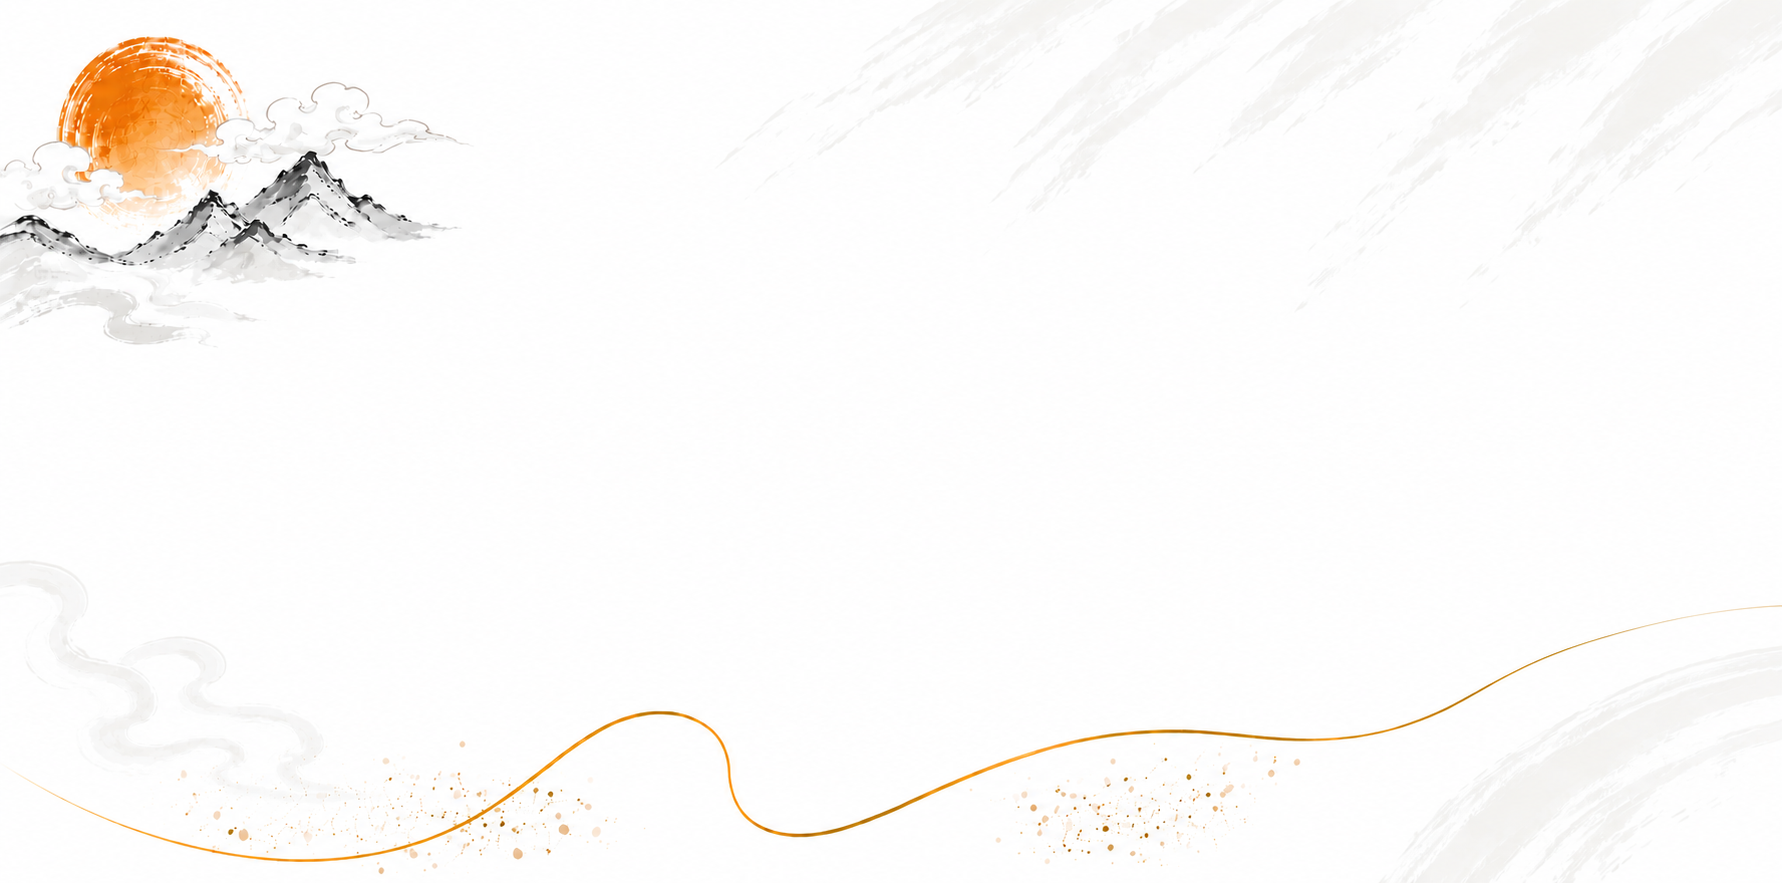
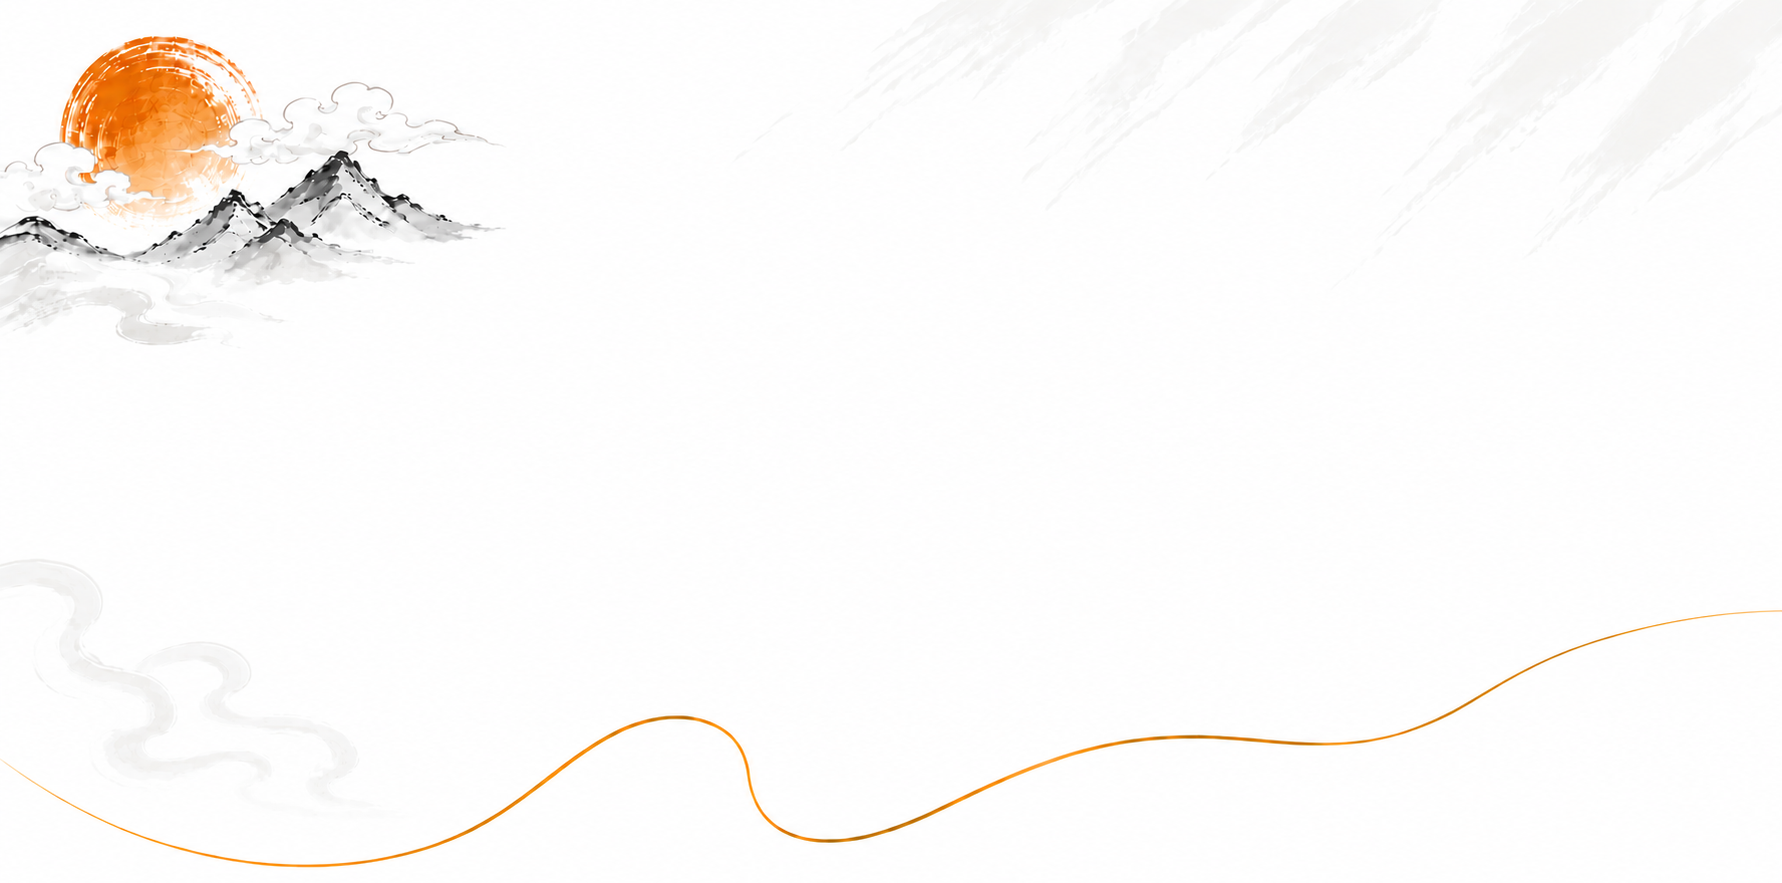
before preloader'

diff --git a/src/components/About.tsx b/src/components/About.tsx
@@ -55,7 +55,6 @@ interface Dish {
   description: string;
   image: string;
   tag?: string;
-  spicy?: boolean;
 }
 
 const FEATURED_DISHES: Dish[] = [
@@ -95,9 +94,6 @@ const FEATURED_DISHES: Dish[] = [
     description:
       "House-fermented napa cabbage with gochugaru, garlic, and ginger — bold, smoky, addictive.",
     image: "/images/kimchi.png",
-    // Heat is dietary info, not curation — it renders as an inline spice
-    // indicator next to the name rather than a badge on the photo.
-    spicy: true,
   },
 ];
 
@@ -191,11 +187,16 @@ export function About() {
           tl.to(textCol, { autoAlpha: 1, scale: 1, duration: 0.16 }, 0.18);
 
           // PHASE 3 (0.52 -> 1.0): the mural keeps opening out — each half
-          // moves its full width (50% of the stage) so the art has fully
-          // left the viewport by the end of the pin. No close, one
-          // continuous motion.
-          tl.to(leftHalf, { xPercent: -100, duration: 0.48 }, 0.52);
-          tl.to(rightHalf, { xPercent: 100, duration: 0.48 }, 0.52);
+          // moves slightly past its full width so the art and its glowing
+          // seam line have fully left the viewport by the end of the pin.
+          // No close, one continuous motion.
+          // ±110 rather than ±100: the seam lines overhang each half's inner
+          // edge by ~2px and glow up to ~30px, so at exactly ±100 an orange
+          // sliver would stay pinned to the viewport edges. The extra 10% of
+          // travel (≥ ~38px at md and up) carries the line and its glow fully
+          // off-screen, and only right at the end of the pin.
+          tl.to(leftHalf, { xPercent: -110, duration: 0.48 }, 0.52);
+          tl.to(rightHalf, { xPercent: 110, duration: 0.48 }, 0.52);
           tl.to(textCol, { autoAlpha: 0, scale: 0.95, duration: 0.1 }, 0.52);
 
           if (lg) {
@@ -303,7 +304,10 @@ export function About() {
           center seam. On desktop the stage is full height (vertically centered
           art); on reduced motion it keeps the mural's natural ~2535:1240
           combined ratio inside the content column. */}
-      <div className="hidden md:block relative z-20 px-6 md:px-0 motion-safe:md:min-h-screen">
+      {/* pointer-events-none: this stage overlays the story/grill layers
+          (z-20 over z-10) and is purely decorative — without it, it swallows
+          every click meant for the buttons revealed in the gap beneath. */}
+      <div className="pointer-events-none hidden md:block relative z-20 px-6 md:px-0 motion-safe:md:min-h-screen">
         <div className="relative mx-auto aspect-[2535/1240] w-full max-w-7xl overflow-hidden md:mx-0 md:aspect-auto md:h-screen md:max-w-none">
           {/* Left half */}
           <div className="mural-half-left absolute left-0 top-0 h-full w-1/2 will-change-transform">
@@ -384,7 +388,7 @@ export function About() {
           </div>
           <Link
             href="/menu"
-            className="mt-10 inline-flex items-center gap-2 font-sans text-sm font-medium text-brand-orange transition-all hover:gap-3"
+            className="relative isolate mt-10 inline-flex items-center gap-2 overflow-hidden rounded-full border border-brand-orange px-8 py-3 font-sans text-sm font-medium text-brand-orange transition-colors duration-300 ease-out before:absolute before:inset-0 before:-z-10 before:origin-left before:scale-x-0 before:bg-brand-orange before:transition-transform before:duration-300 before:ease-out hover:text-white hover:before:scale-x-100 focus-visible:text-white focus-visible:before:scale-x-100"
           >
             Explore our menu
             <span aria-hidden="true">→</span>
@@ -468,16 +472,6 @@ export function About() {
                       }`}
                     >
                       {dish.name}{" "}
-                      {dish.spicy && (
-                        <span
-                          role="img"
-                          aria-label="Spicy"
-                          title="Spicy"
-                          className="mr-1 align-middle text-sm"
-                        >
-                          🌶️
-                        </span>
-                      )}
                       <span className="font-sans text-sm font-light text-foreground/40">
                         {dish.korean}
                       </span>

diff --git a/src/components/HeroVideo.tsx b/src/components/HeroVideo.tsx
@@ -5,7 +5,11 @@ import { useEffect, useRef } from "react";
 /**
  * The hero's grill clip. Autoplays muted like the old full-bleed hero, but
  * honors prefers-reduced-motion by pausing on the poster frame instead of
- * looping (the file is already trimmed to a 5s loop).
+ * looping (the file is already trimmed to a 10s loop).
+ *
+ * While the intro preloader is up (html.preloading), the video holds on its
+ * first frame and starts from the top as the overlay begins to fade, so the
+ * reveal always shows the beginning of the loop.
  */
 export function HeroVideo({ className = "" }: { className?: string }) {
   const ref = useRef<HTMLVideoElement>(null);
@@ -14,26 +18,47 @@ export function HeroVideo({ className = "" }: { className?: string }) {
     const video = ref.current;
     if (!video) return;
 
+    const root = document.documentElement;
     const query = window.matchMedia("(prefers-reduced-motion: reduce)");
+
     const apply = () => {
-      if (query.matches) {
+      if (query.matches || root.classList.contains("preloading")) {
         video.pause();
       } else {
         // play() rejects if the browser blocks autoplay; the poster stays up.
         video.play().catch(() => {});
       }
     };
+
+    // The Preloader only mounts (and adds html.preloading) in a post-hydration
+    // re-render, which can land after this effect — so watch the class in both
+    // directions instead of sampling it once. Rewind on each transition: hold
+    // frame one under the overlay, restart from it as the overlay fades.
+    let wasPreloading = root.classList.contains("preloading");
+    const observer = new MutationObserver(() => {
+      const preloading = root.classList.contains("preloading");
+      if (preloading === wasPreloading) return;
+      wasPreloading = preloading;
+      video.currentTime = 0;
+      apply();
+    });
+    observer.observe(root, { attributes: true, attributeFilter: ["class"] });
+
+    if (wasPreloading) video.currentTime = 0;
     apply();
     query.addEventListener("change", apply);
-    return () => query.removeEventListener("change", apply);
+    return () => {
+      observer.disconnect();
+      query.removeEventListener("change", apply);
+    };
   }, []);
 
   return (
     <video
       ref={ref}
       className={className}
-      src="/videos/hero-grill.mp4"
-      poster="/images/hero-poster.jpg"
+      src="/videos/hero-video3.mp4"
+      poster="/images/hero-poster3.jpg"
       autoPlay
       muted
       loop

diff --git a/src/app/menu/page.tsx b/src/app/menu/page.tsx
@@ -607,33 +607,50 @@ export default function MenuPage() {
 
             {/* Price band */}
             <div className="mx-auto mt-9 inline-flex items-stretch rounded-2xl border border-[#e4d9c4] bg-white shadow-[0_8px_30px_-18px_rgba(26,26,26,0.45)]">
-              <div className="px-8 py-5 text-center sm:px-12">
+              <div className="px-6 py-5 text-center sm:px-10">
                 <p className="font-sans text-[11px] font-medium uppercase tracking-[0.2em] text-foreground/45">
                   Lunch
                 </p>
                 <p className="mt-1 font-serif text-3xl font-light text-brand-red sm:text-4xl">
-                  $22.99
+                  $21.99
                 </p>
                 <p className="mt-1 font-sans text-xs font-light text-foreground/40">
                   per person
                 </p>
               </div>
               <div aria-hidden="true" className="w-px bg-[#e4d9c4]" />
-              <div className="px-8 py-5 text-center sm:px-12">
+              <div className="px-6 py-5 text-center sm:px-10">
                 <p className="font-sans text-[11px] font-medium uppercase tracking-[0.2em] text-foreground/45">
                   Dinner
                 </p>
                 <p className="mt-1 font-serif text-3xl font-light text-brand-red sm:text-4xl">
-                  $29.99
+                  $30.99
                 </p>
                 <p className="mt-1 font-sans text-xs font-light text-foreground/40">
                   per person
+                </p>
+              </div>
+              <div aria-hidden="true" className="w-px bg-[#e4d9c4]" />
+              <div className="px-6 py-5 text-center sm:px-10">
+                <p className="font-sans text-[11px] font-medium uppercase tracking-[0.2em] text-foreground/45">
+                  Seating
+                </p>
+                <p className="mt-1 font-serif text-3xl font-light text-brand-blue sm:text-4xl">
+                  90 min
+                </p>
+                <p className="mt-1 font-sans text-xs font-light text-foreground/40">
+                  per table
                 </p>
               </div>
             </div>
 
             <p className="mt-6 font-sans text-sm font-light text-foreground/50">
               Walk-in only · No reservations needed
+            </p>
+            <p className="mt-2 font-sans text-sm font-light text-foreground/50">
+              Feeling lucky? Stop our clock at exactly{" "}
+              <span className="font-medium text-brand-red">10.00 seconds</span>{" "}
+              and your next barbecue is free.
             </p>
           </div>
         </section>

diff --git a/src/components/Hero.tsx b/src/components/Hero.tsx
@@ -1,6 +1,7 @@
 "use client";
 
 import { motion } from "framer-motion";
+import { HeroVideo } from "./HeroVideo";
 
 export function Hero() {
   return (
@@ -9,19 +10,10 @@ export function Hero() {
       className="relative flex min-h-screen items-center justify-center overflow-hidden"
       aria-label="Hero"
     >
-      {/* Background video — the file itself is trimmed to the 5s loop, so the
-          native `loop` attribute handles playback. The poster paints the first
-          frame immediately while the clip streams in. */}
-      <video
-        className="absolute inset-0 h-full w-full object-cover"
-        src="/videos/hero-grill.mp4"
-        poster="/images/hero-poster.jpg"
-        autoPlay
-        muted
-        loop
-        playsInline
-        aria-hidden="true"
-      />
+      {/* Background video — holds its first frame while the preloader is up
+          and starts the loop from the top as the overlay fades. The poster
+          paints the first frame immediately while the clip streams in. */}
+      <HeroVideo className="absolute inset-0 h-full w-full object-cover" />
 
       {/* Dark gradient overlay — the mid-band is the scrim under the subtext,
           so keep it strong enough for AA contrast over bright grill footage. */}

diff --git a/src/components/Contact.tsx b/src/components/Contact.tsx
@@ -14,7 +14,7 @@ export function Contact() {
   return (
     <section
       id="contact"
-      className="bg-white py-28 px-6"
+      className="bg-[#F7F5F1] py-28 px-6"
       aria-labelledby="contact-heading"
     >
       <div className="mx-auto max-w-7xl">
@@ -48,7 +48,7 @@ export function Contact() {
                   {HOURS.map(({ day, time }) => (
                     <div
                       key={day}
-                      className="flex items-start justify-between border-b border-neutral-100 pb-3 font-sans text-sm"
+                      className="flex items-start justify-between border-b border-[#e3dfd6] pb-3 font-sans text-sm"
                     >
                       <dt className="text-foreground/70">{day}</dt>
                       <dd className="font-medium text-foreground">{time}</dd>
@@ -127,7 +127,7 @@ export function Contact() {
 
             {/* Map placeholder */}
             <ScrollReveal {...REVEAL} delay={0.08}>
-              <div className="aspect-video w-full overflow-hidden border border-neutral-200">
+              <div className="aspect-video w-full overflow-hidden border border-[#e3dfd6]">
                 <iframe
                   title="Map to KM BBQ Oceanside"
                   src="https://www.google.com/maps?q=2216+S+El+Camino+Real+%23108-109,+Oceanside,+CA+92054&output=embed"

diff --git a/src/components/PriceBoard.tsx b/src/components/PriceBoard.tsx
@@ -47,7 +47,7 @@ export function PriceBoard() {
                   Lunch
                 </p>
                 <p className="mt-1 font-display text-5xl font-extrabold tracking-tight">
-                  $22.99
+                  $21.99
                 </p>
                 <p className="mt-2 text-sm font-medium text-brand-ink/70">
                   per person
@@ -58,7 +58,7 @@ export function PriceBoard() {
                   Dinner
                 </p>
                 <p className="mt-1 font-display text-5xl font-extrabold tracking-tight">
-                  $29.99
+                  $30.99
                 </p>
                 <p className="mt-2 text-sm font-medium text-brand-ink/70">
                   per person